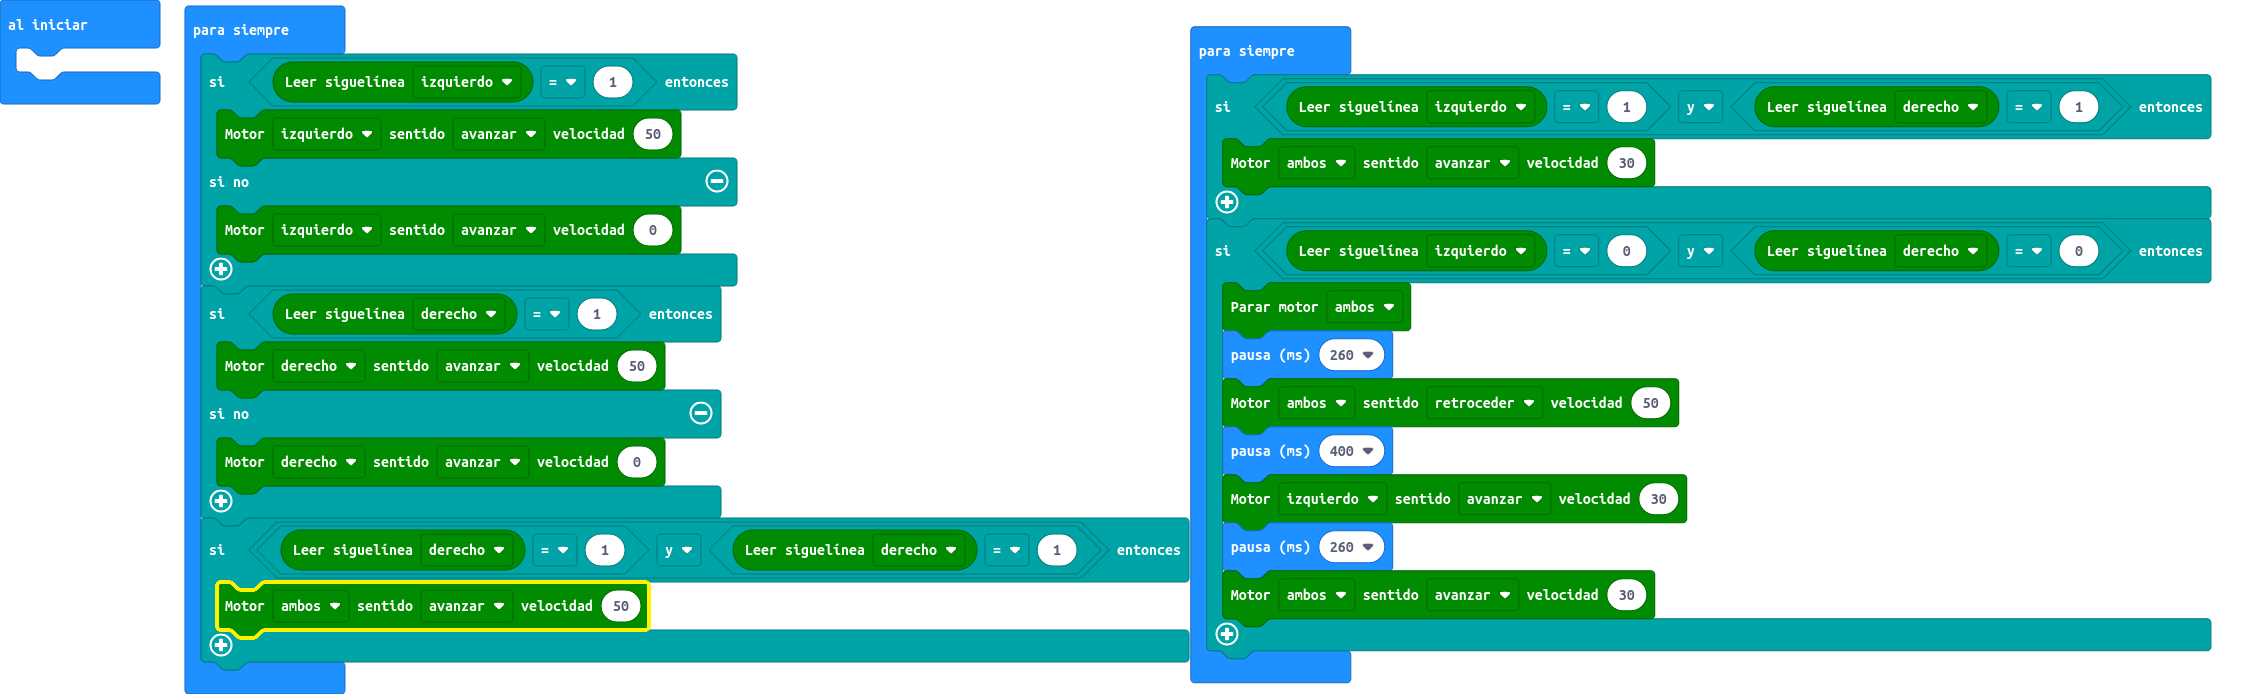
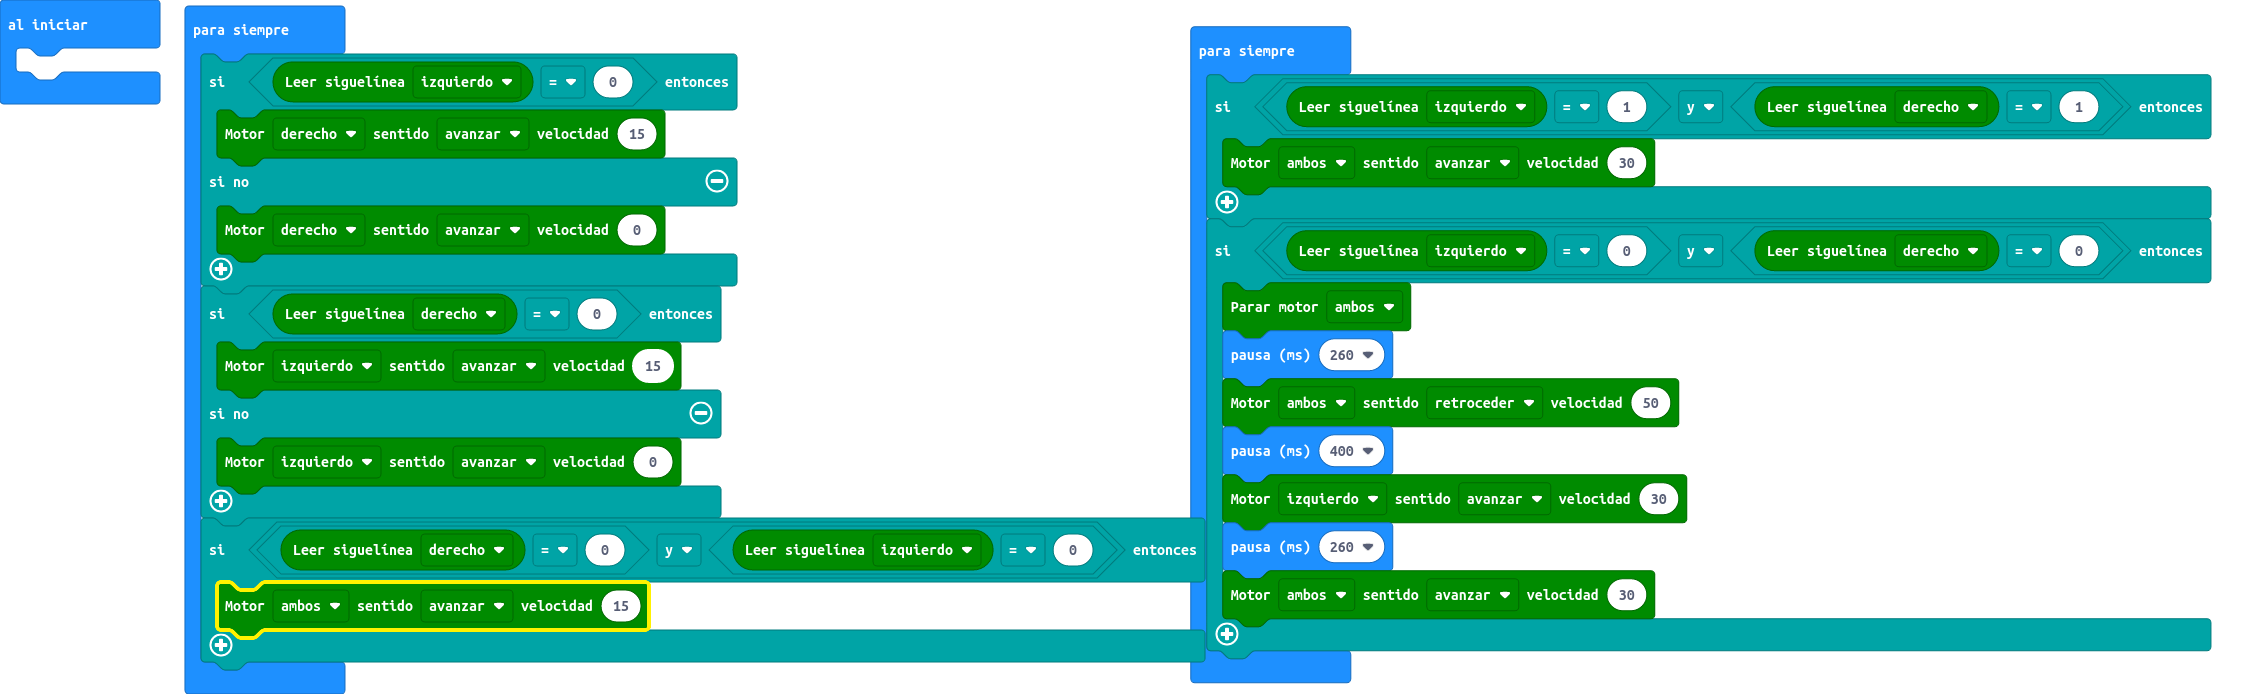
Actualizar main.blocks, main.ts

diff --git a/main.ts b/main.ts
@@ -1,16 +1,16 @@
 basic.forever(function () {
-    if (maqueen.readPatrol(maqueen.Patrol.PatrolLeft) == 1) {
-        maqueen.motorRun(maqueen.Motors.M1, maqueen.Dir.CW, 50)
-    } else {
-        maqueen.motorRun(maqueen.Motors.M1, maqueen.Dir.CW, 0)
-    }
-    if (maqueen.readPatrol(maqueen.Patrol.PatrolRight) == 1) {
-        maqueen.motorRun(maqueen.Motors.M2, maqueen.Dir.CW, 50)
+    if (maqueen.readPatrol(maqueen.Patrol.PatrolLeft) == 0) {
+        maqueen.motorRun(maqueen.Motors.M2, maqueen.Dir.CW, 15)
     } else {
         maqueen.motorRun(maqueen.Motors.M2, maqueen.Dir.CW, 0)
     }
-    if (maqueen.readPatrol(maqueen.Patrol.PatrolRight) == 1 && maqueen.readPatrol(maqueen.Patrol.PatrolRight) == 1) {
-        maqueen.motorRun(maqueen.Motors.All, maqueen.Dir.CW, 50)
+    if (maqueen.readPatrol(maqueen.Patrol.PatrolRight) == 0) {
+        maqueen.motorRun(maqueen.Motors.M1, maqueen.Dir.CW, 15)
+    } else {
+        maqueen.motorRun(maqueen.Motors.M1, maqueen.Dir.CW, 0)
+    }
+    if (maqueen.readPatrol(maqueen.Patrol.PatrolRight) == 0 && maqueen.readPatrol(maqueen.Patrol.PatrolLeft) == 0) {
+        maqueen.motorRun(maqueen.Motors.All, maqueen.Dir.CW, 15)
     }
 })
 basic.forever(function () {
